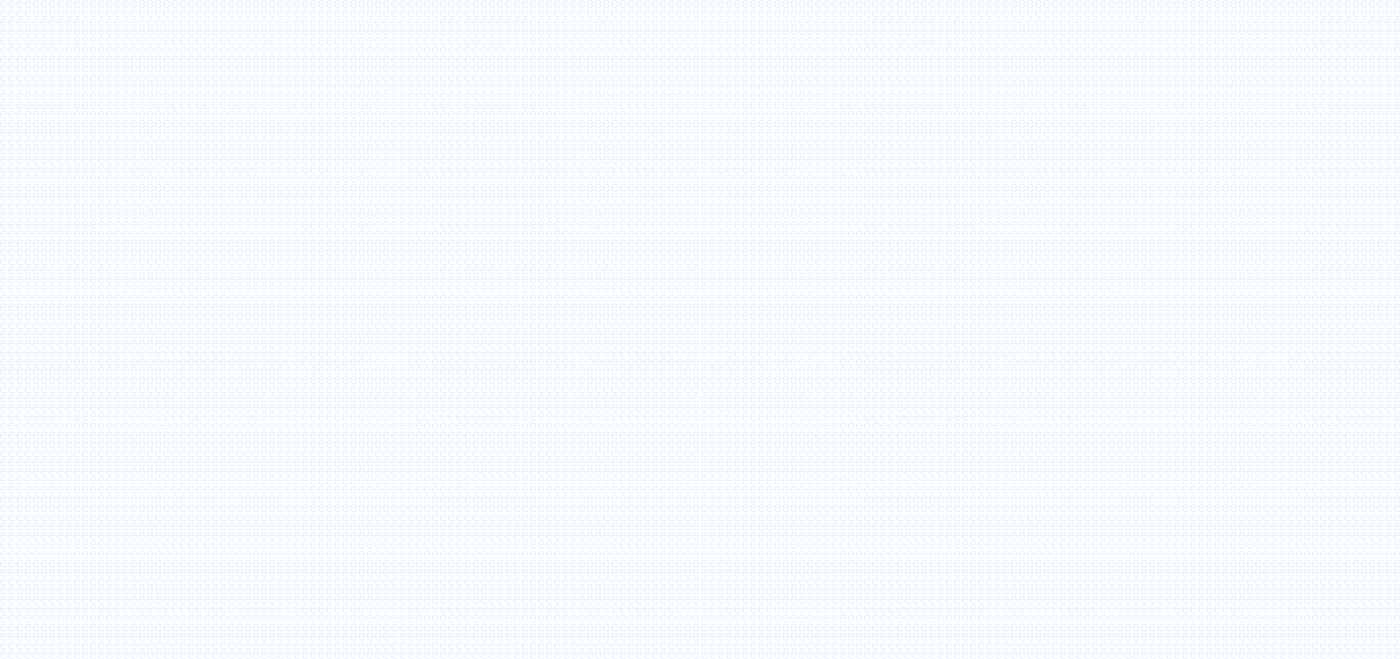
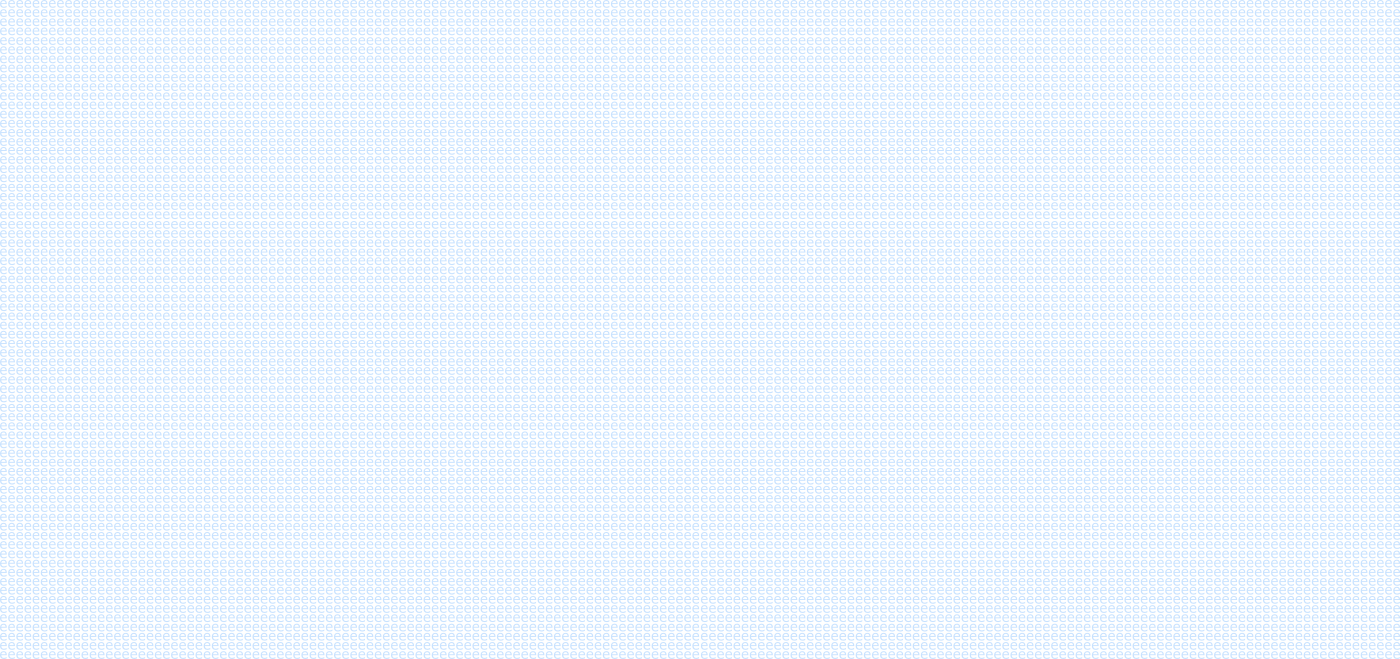
tested custom backgrounds for all the themes

Changed region(s): [[0.0, 0.0, 1.0, 1.0]]

diff --git a/src/texts/english.js b/src/texts/english.js
@@ -254,7 +254,7 @@ const english = {
     '2482':'Job Offers','2483':'The amounts they are offering for the job.','2484':'Apply for the job','2485':'Respond to the ad with a contract and apply for the job.','2486':'Apply','2487':'Pin the job to your feed.','2488':'Pin Job','2489':'Pin/Unpin Job','2490':'Edit Job Post','2491':'Change the basic details for your Job Post','2492':'Perform Action','2493':'Block Number','2494':'age','2495':'ago','2496':'In ','2497':'Job Responses','2498':'Expiry time from now: ','2499':'Contract ID: ','2500':'Sender ID: ','2501':'Accepted','2502':'The job owner picked this application','2503':'Expiry time from now: ','2504':'Contract ID: ','2505':'Sender ID: ','2506':'Copied message to clipboard','2507':'responses','2507a':'Reply',
     
     /* list section */
-    '2508':'That ID is not valid.','2509':'Searching...','2509a':'Enter Name or Symbol...','2509b':' items','2509c':' responses','2509d':'That object is not available for you to access.','2509e':'Account ID or Alias...','2509f':'Wallet Unset.','2509g':'You need to set your wallet to see your mail.','2509h':'You need to set your wallet to see your bills.','2509i':'$ SPEND','2509j':'$ variants available.','2509k':'🥸 Anonymous','2509l':'$ songs available.','2509m':'$ videos available.','2509n':'views','2509o':'view','2509p':'Streamed','2509q':'$ streamed','2509r':'$ new % loaded.','2509s':'Tap this to refresh your feed and show them.','2509t':'vote in all','2509u':'','2509v':'','2509w':'',
+    '2508':'That ID is not valid.','2509':'Searching...','2509a':'Enter Name or Symbol...','2509b':' items','2509c':' responses','2509d':'That object is not available for you to access.','2509e':'Account ID or Alias...','2509f':'Wallet Unset.','2509g':'You need to set your wallet to see your mail.','2509h':'You need to set your wallet to see your bills.','2509i':'$ SPEND','2509j':'$ variants available.','2509k':'🥸 Anonymous','2509l':'$ songs available.','2509m':'$ videos available.','2509n':'views','2509o':'view','2509p':'Streamed','2509q':'$ streamed','2509r':'$ new % loaded.','2509s':'Tap this to refresh your feed and show them.','2509t':'vote in all','2509u':'Contract','2509v':'The Main Contract for $','2509w':'',
     
     /* mail details section */
     '2510':'data 📄','2512':' with ','2513':'Conversation.',
@@ -360,7 +360,7 @@ const english = {
     /* dialog page */
     '3055':'Upload File Confirmation.','3055a':'Confirm that you want to upload the file to Arweave.','3055b':'Wallet Balance in Winston.','3055c':'Wallet Balance in Arweave.','3055d':'Upload fee in winston.','3055e':'Upload fee in Arweave.','3055f':'Upload File type.','3055g':'Upload file Hash','3055h':'Copied Hash to Clipboard.','3055i':'Upload File.','3055j':'Transaction Impact on your Wallet.','3055k':'proportion','3055l':'You do not have enough Arweave to pay for the upload.','3055m':'Upload file size.','3055n':'File Name.','3055o':'File Upload.','3055p':'File Size.','3055q':'File Cid.','3055r':'Forget File.','3055s':'Not On Chain.','3055t':'You need to make an E5 run to record this file on permanently.','3055u':'File forgotten.','3055v':'On Chain.','3055w':'A link to the file is permanently stored on chain.','3055x':'File Details.','3055y':'Add to Contacts','3055z':'Add the account to your contact list for easier access in the future.','3055ba':'Block Account','3055bb':'Hide the acccounts content from your feed, your content and the feed of your followers.','3055bc':'View Account','3055bd':'View the accounts entire activity on e.','3055be':'Copy Account','3055bf':'Copy the accounts ID to your clipboard','3055bg':'Copy Alias','3055bh':'Copied to Clipboard.','3055bi':'If you do this, the changes will reflect on other peoples feeds after your next run.','3055bj':'Done.','3055bk':'Stack Too Large.','3055bl':'The amount of data your uploading to E5 is too much for one transaction. Try splitting it into multiple runs.','3055bm':'Upload Size Limit.','3055bn':'Stack Size.','3055bo':'Pick Image','3055bp':'Images with the .png .jpg and .jpeg extensions are supported as well as gif files.','3055bq':'Pick Audio','3055br':'Audio files with the .mp3 extensions are supported.','3055bs':'Pick Video','3055bt':'Video files with the .mp4 extensions are supported.','3055bu':'Pick PDF','3055bv':'Pdf files with the .pdf extensions are supported.','3055bw':'Pick Zip','3055bx':'Compressed files with the .zip extensions are supported.','3055by':'Verify File','3055bz':'Verify that the entire file has not been tampered with.','3055ca':'Verifying the file...','3055cb':'Something went wrong.','3055cc':'Your file might have been tampered with.','3055cd':'File verified.','3055ce':'✔ File Verified.',
     '3055cf':'The file has not been tampered with.','3055cg':'⚠ File Not Verified.','3055ch':'The file might have been tampered with.','3055ci':'Reload Section.','3055cj':'Reload the section and scroll to the top.','3055ck':'Scroll to Top.','3055cl':'Scroll to the top of the section.','3055cm':'Reloading in progress...','3055cn':'Your balance.','3055co':'The JSON object in the file should look something like this. Make sure the format matches exactly, otherwise it wont work.','3055cp':'Pick Lyric File.','3055cq':'Lyric files with the .lrc extensions are supported.','3055cr':'Pick Subtitle File.','3055cs':'Subtitle files with the .vtt extensions are supported','3055ct':'The total amounts to be tranferred.','3055cu':'Your balances for the exchanges used.','3055cv':'Confirm that you wan to upload your selected files to indexer.','3055cw':'Selected File Type','3055cx':'Total Space to be Consumed','3055cy':'File Count.','3055cz':'Impact on your Storage Space.','3055da':'$ consumed.','3055db':'$ files','3055dc':'Below is the total amount of money youre set to pay for your files.','3055dd':'You cant ignore all of the nodes.','3055de':'You need to wait for all the nodes to finish loading first.','3055df':'indexer-renewal','3055dg':'indexer','3055dh':'renewal','3055di':'🗑 File Deleted.','3055dj':'The file was deleted by your indexer storage provider.','3055dk':'Youll need to select youre preferred E5s to make the renewal purchases.','3055dl':'No payments to make.','3055dm':'Buy Track.','3055dn':'Buy the track and add it to your collection.','3055do':'🗑 Delete File','3055dp':'Delete the file from the node and halt its streaming immediately and forever. This action cannot be undone.','3055dq':'You wont get the file\'s space back, but you won\'t pay for the files renewal.','3055dr':'Please wait a few moments for the file\'s node to come online.','3055ds':'File deleted successfully.','3055dt':'Auto Broadcast Unsuccessful.','3055du':'e was unable to broadcast your transaction, probably due to rate limits. However, you can manually post your transaction using the link provided below.','3055dv':'Transaction Hex.','3055dw':'Just copy the hex data shown below, then use the link provided below the button to broadcast the transaction.','3055dx':'Copy Hex',
-    '3055dy':'Hex copied to Clipboard','3055dz':'Confirm Switch Wallets','3055ea':'Are you sure you wish to set this wallet? The transactions you stacked with your previous wallet will be deleted.','3055eb':'File Location','3055ec':'Filter By Following','3055ed':'Filter the content in the section by an account your following.','3055ee':'Filtering...','3055ef':'Note Expiry Time.','3055eg':'Set the time after which the note will be no longer visible.','3055eh':'Set Note Expiry Time.','3055ei':'Attach File.','3055ej':'You can also attach one or more files to be shown below the note.','3055ek':'Accessing User','3055el':'Access Terminal','3055em':'Host IP Address','3055en':'Access Date','3055eo':'Log-In Time (UTC)','3055ep':'Logged-Out Time (UTC)','3055eq':'Duration Logged On','3055er':'Open Via Iframe','3055es':'Open the link inside e using an iframe.','3055et':'Open Iframe','3055eu':'Open in Browser','3055ev':'Open the link in a new tab in your browser.','3055ew':'Open Browser','3055ex':'If the indexer charges streaming fees on your files, the data streamed is combined with the displayed file size.','3055ey':'Active Proposals.','3055ez':'The vote you select will be applied to the proposals listed below. Tap a proposal to ignore it in the final list.','3055fa':'Select Vote','3055fb':'Specify the vote that will be applied to all the proposals listed.','3055fc':'Bundle Limit','3055fd':'Specify the number of proposal vote transactions that will be bundled together as one transaction. The default is set to 10.','3055fe':'transactions','3055ff':'Vote In All','3055fg':'vote_all','3055fh':'That bundle limit is invalid.','3055fi':'Include Bounties.','3055fj':'Collect End and Spend bounties from the proposal objects.','3055fk':'collect','3055fl':'Collect End and Spend Bounties.','3055fm':'Enabled','3055fn':'Disabled','3055fo':'Your Vote.','3055fp':'Your vote will apply to the following proposals.','3055fq':'You cant ignore all the proposals.','3055fr':'Hide Tracks in Audiopost','3055fs':'Select the tracks you wish to hide from your collection.','3055ft':'Confirm','3055fu':'Hide Tracks in Videopost','3055fv':'Select the videos you wish to hide from your collection.','3055fw':'e will hide those videos from your collection.','3055fx':'You deleted that file.','3055fy':'','3055fz':'','3055ga':'','3055gb':'','3055gc':'','3055gd':'','3055ge':'','3055gf':'','3055gg':'',
+    '3055dy':'Hex copied to Clipboard','3055dz':'Confirm Switch Wallets','3055ea':'Are you sure you wish to set this wallet? The transactions you stacked with your previous wallet will be deleted.','3055eb':'File Location','3055ec':'Filter By Following','3055ed':'Filter the content in the section by an account your following.','3055ee':'Filtering...','3055ef':'Note Expiry Time.','3055eg':'Set the time after which the note will be no longer visible.','3055eh':'Set Note Expiry Time.','3055ei':'Attach File.','3055ej':'You can also attach one or more files to be shown below the note.','3055ek':'Accessing User','3055el':'Access Terminal','3055em':'Host IP Address','3055en':'Access Date','3055eo':'Log-In Time (UTC)','3055ep':'Logged-Out Time (UTC)','3055eq':'Duration Logged On','3055er':'Open Via Iframe','3055es':'Open the link inside e using an iframe.','3055et':'Open Iframe','3055eu':'Open in Browser','3055ev':'Open the link in a new tab in your browser.','3055ew':'Open Browser','3055ex':'If the indexer charges streaming fees on your files, the data streamed is combined with the displayed file size.','3055ey':'Active Proposals.','3055ez':'The vote you select will be applied to the proposals listed below. Tap a proposal to ignore it in the final list.','3055fa':'Select Vote','3055fb':'Specify the vote that will be applied to all the proposals listed.','3055fc':'Bundle Limit','3055fd':'Specify the number of proposal vote transactions that will be bundled together as one transaction. The default is set to 10.','3055fe':'transactions','3055ff':'Vote In All','3055fg':'vote_all','3055fh':'That bundle limit is invalid.','3055fi':'Include Bounties.','3055fj':'Collect End and Spend bounties from the proposal objects.','3055fk':'collect','3055fl':'Collect End and Spend Bounties.','3055fm':'Enabled','3055fn':'Disabled','3055fo':'Your Vote.','3055fp':'Your vote will apply to the following proposals.','3055fq':'You cant ignore all the proposals.','3055fr':'Hide Tracks in Audiopost','3055fs':'Select the tracks you wish to hide from your collection.','3055ft':'Confirm','3055fu':'Hide Tracks in Videopost','3055fv':'Select the videos you wish to hide from your collection.','3055fw':'e will hide those videos from your collection.','3055fx':'You deleted that file.','3055fy':'Vote in all the selected proposals.','3055fz':'','3055ga':'','3055gb':'','3055gc':'','3055gd':'','3055ge':'','3055gf':'','3055gg':'',
     
     
     '3056':'light-green','3057':'red','3058':'light-red','3059':'blue','3060':'light-blue','3061':'yellow','3062':'light-yellow','3063':'pink','3064':'light-pink','3065':'orange','3066':'light-orange',

diff --git a/src/App.js b/src/App.js
@@ -348,17 +348,11 @@ import lightyellow4 from './assets/lightyellow4.jpg'
 import lightyellow5 from './assets/lightyellow5.jpg'
 
 import default_page_background_green from './assets/default_page_background_green_dark.png'
-import default_page_background_green_light from './assets/default_page_background_green_light.png'
 import default_page_background_red from './assets/default_page_background_red_dark.png'
-import default_page_background_red_light from './assets/default_page_background_red_light.png'
 import default_page_background_yellow from './assets/default_page_background_yellow_dark.png'
-import default_page_background_yellow_light from './assets/default_page_background_yellow_light.png'
 import default_page_background_blue from './assets/default_page_background_blue_dark.png'
-import default_page_background_blue_light from './assets/default_page_background_blue_light.png'
 import default_page_background_pink from './assets/default_page_background_pink_dark.png'
-import default_page_background_pink_light from './assets/default_page_background_pink_light.png'
 import default_page_background_orange from './assets/default_page_background_orange_dark.png'
-import default_page_background_orange_light from './assets/default_page_background_orange_light.png'
 
 // import  from './assets/'
 // import  from './assets/'
@@ -4949,6 +4943,8 @@ class App extends Component {
         'shuffle':shuffle_dark,
         'repeat':repeat_dark,
 
+        'highlight_text_background':true,
+
         'letter':letter,
         'e5_logo':e5_logo_dark,
         'backgrounds':[],
@@ -5076,7 +5072,7 @@ class App extends Component {
         'letter':letter_darkgreen,
         'e5_logo':e5_logo_darkgreen,
         'backgrounds':[lightgreen1, lightgreen2, lightgreen3, lightgreen4, lightgreen5],
-        'page_background':default_page_background_green_light,
+        'page_background':default_page_background_green,
       }
     }
 
@@ -5159,7 +5155,7 @@ class App extends Component {
         'letter':letter_darkred,
         'e5_logo':e5_logo_darkred,
         'backgrounds':[lightred1, lightred2, lightred3, lightred4, lightred5],
-        'page_background':default_page_background_red_light,
+        'page_background':default_page_background_red,
       }
     }
 
@@ -5242,7 +5238,7 @@ class App extends Component {
         'letter':letter_darkblue,
         'e5_logo':e5_logo_darkblue,
         'backgrounds':[lightblue1, lightblue2, lightblue3, lightblue4, lightblue5],
-        'page_background':default_page_background_blue_light,
+        'page_background':default_page_background_blue,
       }
     }
 
@@ -5325,7 +5321,7 @@ class App extends Component {
         'letter':letter_darkyellow,
         'e5_logo':e5_logo_darkyellow,
         'backgrounds':[lightyellow1, lightyellow2, lightyellow3, lightyellow4, lightyellow5],
-        'page_background':default_page_background_yellow_light,
+        'page_background':default_page_background_yellow,
       }
     }
 
@@ -5408,7 +5404,7 @@ class App extends Component {
         'letter':letter_darkpink,
         'e5_logo':e5_logo_darkpink,
         'backgrounds':[lightpink1, lightpink2, lightpink3, lightpink4, lightpink5],
-        'page_background':default_page_background_pink_light,
+        'page_background':default_page_background_pink,
       }
     }
 
@@ -5491,7 +5487,7 @@ class App extends Component {
         'letter':letter_darkorange,
         'e5_logo':e5_logo_darkorange,
         'backgrounds':[lightorange1, lightorange2, lightorange3, lightorange4, lightorange5],
-        'page_background':default_page_background_orange_light,
+        'page_background':default_page_background_orange,
       }
     }
 
@@ -5504,7 +5500,7 @@ class App extends Component {
   }
 
   get_time_of_day_theme(){
-    var hour = new Date().getHours() 
+    var hour = new Date().getHours()
     if(hour >= 18 || hour < 7){
       if(hour >= 23 || hour < 4){
         return this.getLocale()['2740']/* midnight */
@@ -15870,12 +15866,12 @@ class App extends Component {
       'view_bid_item':550,
       'manual_transaction_broadcast':570,
       'confirm_new_wallet': 200,
-      'create_moderator_note':800,
+      'create_moderator_note':700,
       'export_direct_purchases':500,
       'view_access_logs':550,
       'view_error_logs':650,
       'view_link_option':350,
-      'vote_wait_bottomsheet':550,
+      'vote_wait_bottomsheet':700,
       'hide_audiopost_confirmation':550,
       'hide_videopost_confirmation':550,
     };

diff --git a/src/components/view_groups.js b/src/components/view_groups.js
@@ -274,7 +274,7 @@ class ViewGroups extends Component {
                 details = '...'
             }
             const parts = details.split(' ');
-            
+            const box_shadow = this.props.theme['highlight_text_background'] == true ? '0px 0px 1px 1px '+this.props.theme['card_shadow_color'] : '0px 0px 0px 0px '+this.props.theme['card_shadow_color']
             if(item_id == '8'){
                 var img = E5EmptyIcon;
                 if(object_data != null){
@@ -289,7 +289,7 @@ class ViewGroups extends Component {
                 const subdetails = object_data != null && object_data['subdetails'] == null ? '' : object_data['subdetails']
 
                return (
-                    <div style={{'display': 'flex','flex-direction': 'row','padding': '10px 15px 10px 0px','margin':'0px 0px 0px 0px', 'background-color': background_color,'border-radius': border_radius}}>
+                    <div style={{'display': 'flex','flex-direction': 'row','padding': '10px 15px 10px 0px','margin':'0px 0px 0px 0px', 'background-color': background_color,'border-radius': border_radius, 'box-shadow': box_shadow}}>
                         <div style={{'display': 'flex','flex-direction': 'row','padding': '0px 0px 0px 5px', width: '99%'}}>
                             <div>
                                 {this.render_label_id_image(blur_image, img, title, font_size, image_width, image_border_radius, object_data)}
@@ -314,7 +314,7 @@ class ViewGroups extends Component {
                 ); 
             }else{
                 return(
-                    <div style={{'display': 'flex','flex-direction': 'row','padding': padding,'margin':'0px 0px 0px 0px', 'background-color': background_color,'border-radius': border_radius}}>
+                    <div style={{'display': 'flex','flex-direction': 'row','padding': padding,'margin':'0px 0px 0px 0px', 'background-color': background_color,'border-radius': border_radius, 'box-shadow': box_shadow}}>
                         <div style={{height:'100%', width:'100%'}}>
                             <div>
                                 <div style={{'display': 'flex','flex-direction': 'row'}}>
@@ -405,9 +405,9 @@ class ViewGroups extends Component {
                             animation: clickAnim 0.2s ease;
                         }
                         @keyframes clickAnim {
-                            0%   { transform: scale(1); background-color: ${this.props.theme['button_color']}; }
-                            50%  { transform: scale(0.95); background-color: ${this.props.theme['button_color']}; }
-                            100% { transform: scale(1); background-color: ${this.props.theme['button_color']}; }
+                            0%   { transform: scale(1); }
+                            50%  { transform: scale(0.95); }
+                            100% { transform: scale(1); }
                         }
                     `}</style>
                     <button ref={(el) => (this.button = el)} className={this.state.animate ? 'button-click' : ''} style={{'background-color': this.props.theme['button_color'], 'color': this.props.theme['button_text_color'], 'border-radius': '17px', width:'100%', 'border': 'none','text-decoration': 'none','font-size': '13px','padding':'8px 0px 8px 0px','margin':'0px 0px 0px 0px','box-shadow': '0px 0px 2px 1px '+this.props.theme['card_shadow_color'],'text-transform': text_transform, 'font-family': this.props.font, transition: 'background-color 0.3s ease'}} onMouseDown={(e) => this.when_any_button_tapped(e, prevent_default, action, opacity)}>

diff --git a/src/pages/dialog_page.js b/src/pages/dialog_page.js
@@ -118,7 +118,7 @@ class DialogPage extends Component {
                 active:'e', 
             },
             'e':[
-                ['or','',0], ['e',this.props.app_state.loc['3055fk']/* 'collect' */], [1]
+                ['or','',0], ['e',this.props.app_state.loc['3055fk']/* 'collect' */], [0]
             ],
         };
     }
@@ -7471,6 +7471,8 @@ return data['data']
 
                 {this.render_detail_item('0')}
 
+                {this.render_detail_item('3', {'title':this.props.app_state.loc['3055ff']/* 'Vote In All' */, 'details':this.props.app_state.loc['3055fy']/* 'Vote in all the selected proposals.' */, 'size':'l'})}
+                <div style={{height: 10}}/>
                 <div onClick={()=>this.vote_in_all_proposals()}>
                     {this.render_detail_item('5', {'text':this.props.app_state.loc['3055ff']/* 'Vote In All' */, 'action':''})}
                 </div>
@@ -7493,16 +7495,17 @@ return data['data']
 
     render_vote_wait_options_proposals(){
         const items = this.state.data['selected_proposals']
-
         return(
             <div>
                 {this.render_detail_item('3', {'title':this.props.app_state.loc['3055ey']/* 'Active Proposals.' */, 'details':this.props.app_state.loc['3055ez']/* 'The vote you select will be applied to the proposals listed below. Tap a proposal to ignore it in the final list.' */, 'size':'l'})}
                 <div style={{height: 10}}/>
-                {items.map((item, index) => (
-                    <div>
-                        {this.render_proposal_object(item, index)}
-                    </div>
-                ))}
+                <div style={{maxHeight: '600px', overflow: 'auto'}}>
+                    {items.map((item, index) => (
+                        <div style={{'padding':'5px'}}>
+                            {this.render_proposal_object(item, index)}
+                        </div>
+                    ))}
+                </div>
             </div>
         )
     }

diff --git a/src/sections/list_section.js b/src/sections/list_section.js
@@ -1071,7 +1071,8 @@ class PostListSection extends Component {
     format_contract_item(object){
         var main_contract_tags = ['Contract', 'main', object['e5'] ]
         var tags = object['ipfs'] == null ? (object['id'] == 2 ? main_contract_tags : ['Contract']) : [object['e5']].concat(object['ipfs'].entered_indexing_tags)
-        var title = object['ipfs'] == null ? 'Contract ID' : object['ipfs'].entered_title_text
+
+        var title = object['ipfs'] == null ? (object['id'] == 2 ? this.props.app_state.loc['2509v']/* 'The Main Contract for $' */.replace('$', object['e5']) :this.props.app_state.loc['2509u']/* Contract */) : object['ipfs'].entered_title_text
         var age = object['event'] == null ? this.props.app_state.boot_times[object['e5']]['block'] : object['event'].returnValues.p5
         var time = object['event'] == null ? this.props.app_state.boot_times[object['e5']]['time'] : object['event'].returnValues.p4
         var id_text = ' • '+object['id']
@@ -1188,7 +1189,7 @@ class PostListSection extends Component {
     }
 
     filter_proposals_by_not_participated_in(all_items){
-        const saved_pre_launch_data_object = this.props.app_state.saved_pre_launch_data_object
+        const saved_pre_launch_data_object = this.props.app_state.saved_pre_launch_events
         const selected_proposals = all_items.filter(function (object) {
             const e5 = object['e5']
             const proposal_id = object['id']

diff --git a/src/components/text_input.js b/src/components/text_input.js
@@ -80,9 +80,10 @@ class TextInput extends Component {
   render_text_input_field(){
     var os = getOS()
     var f = os == 'iOS' ? '16px' : '13px'
+    const box_shadow = this.props.theme['highlight_text_background'] == true ? '0px 0px 1px 1px '+this.props.theme['card_shadow_color'] : '0px 0px 0px 0px '+this.props.theme['card_shadow_color']
     return(
       <div style={{'padding': '0px 0px 0px 0px'}}>
-        <div style={{'display': 'flex', 'background-color': this.props.theme['secondary_text_color'],'flex-direction': 'row','margin': '0px 0px 0px 0px','border-radius': '0px 11px 11px 0px'}}>
+        <div style={{'display': 'flex', 'background-color': this.props.theme['secondary_text_color'], 'box-shadow': box_shadow,'flex-direction': 'row','margin': '0px 0px 0px 0px','border-radius': '0px 11px 11px 0px'}}>
           {this.render_textarea_or_input(f)}
         </div>
       </div>
